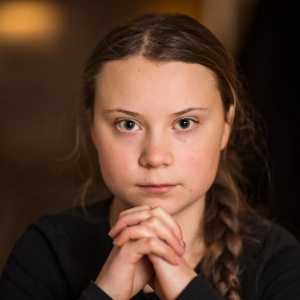
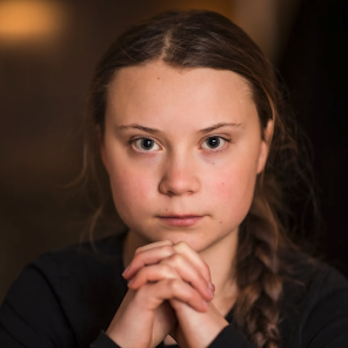
Base for grid cards

diff --git a/src/app/modules/app/components/card/card.component.html b/src/app/modules/app/components/card/card.component.html
@@ -1,28 +1,56 @@
-<div class="div-main-card">
-    <!-- Celebritie picture -->
-    <img class="img-celebrity-picture" src="../../../../../assets/img/{{celebrity.picture}}">
-    <!-- Celebrity name -->
-    <div>
-        <a class="a-celebrity-name"> 
-            {{celebrity.name}}
-        </a>
+<!-- banner cards -->
+<div class="div-card-view">
+    <div *ngIf="currentView === cardListView" class="div-main-card">
+        <!-- Celebritie picture -->
+        <img class="img-celebrity-picture" src="../../../../../assets/img/{{celebrity.picture}}">
+        <!-- Celebrity name -->
+        <div>
+            <a class="a-celebrity-name"> 
+                {{celebrity.name}}
+            </a>
+        </div>
+        <!-- Celebrity description -->
+        <div class="div-celebrity-container-description">
+            <a class="a-celebrity-description"> 
+                {{celebrity.description}}
+            </a>
+        </div>
+        <!-- lastUpdated -->
+        <div class="div-celebrity-container-lastupdated">
+            <a class="a-celebrity-lastupdated"> 
+                {{celebrity.lastUpdatedMessage}}
+            </a>
+        </div>
+        <!-- score -->
+        <app-score [rectangleHeight]="rectangleHeight" [celebrity]="celebrity"></app-score>
+        <!-- vote -->
+        <app-vote [celebrity]="celebrity"></app-vote>
+        <!-- banner__background -->
+        <div class="div-rectangle" [ngStyle]="{'height':getHeightRectangle()}"></div>
     </div>
-    <!-- Celebrity description -->
-    <div class="div-celebrity-container-description">
-        <a class="a-celebrity-description"> 
-            {{celebrity.description}}
-        </a>
+</div>
+<!-- grid cards -->
+<div class="div-grid-card-view">
+    <div *ngIf="currentView != cardListView" class="div-grid-card">
+        <!-- Celebritie picture -->
+        <img class="img-celebrity-grid" src="../../../../../assets/img_grid/{{celebrity.picture}}">
+         <!-- Celebrity name -->
+         <div>
+            <a class="a-celebrity-name-in-grid"> 
+                {{substringName(celebrity.name)}}
+            </a>
+        </div>
+        <!-- Celebrity description -->
+        <div class="div-celebrity-container-description-grid">
+            <a class="a-celebrity-description-grid"> 
+                {{substringDescription(celebrity.description)}}
+            </a>
+        </div>
+        <!-- lastUpdated -->
+        <div class="div-celebrity-container-lastupdated-grid">
+            <a class="a-celebrity-lastupdated-grid"> 
+                {{celebrity.lastUpdatedMessage}}
+            </a>
+        </div>
     </div>
-    <!-- lastUpdated -->
-    <div class="div-celebrity-container-lastupdated">
-        <a class="a-celebrity-lastupdated"> 
-            {{celebrity.lastUpdatedMessage}}
-        </a>
-    </div>
-    <!-- score -->
-    <app-score [rectangleHeight]="rectangleHeight" [celebrity]="celebrity"></app-score>
-    <!-- vote -->
-    <app-vote [celebrity]="celebrity"></app-vote>
-    <!-- banner__background -->
-    <div class="div-rectangle" [ngStyle]="{'height':getHeightRectangle()}"></div>
 </div>

diff --git a/src/app/modules/app/components/card/card.component.scss b/src/app/modules/app/components/card/card.component.scss
@@ -1,5 +1,12 @@
-.div-main-card {
+.div-card-view {
     width: 100%;
+}
+
+.div-grid-card-view {
+    width: 110%;
+}
+
+.div-main-card {
     height: 170px;
     margin-bottom: 18px;
 }
@@ -70,4 +77,76 @@
     color:white;
     position: absolute;
     right: 0;
+}
+
+/* Grid card */
+.div-grid-card {
+    width: 348px;
+    height: 348px;
+    float: left;
+    margin: 0 27px 27px 0;
+}
+
+.img-celebrity-grid {
+    width: 348px;
+    height: 348px;
+}
+
+.a-celebrity-name-in-grid {
+    position: relative;
+    font-family: Lato;
+    font-style: normal;
+    font-weight: normal;
+    font-size: 36px;
+    line-height: 43px;
+    display: flex;
+    align-items: flex-end;
+    color: #FFFFFF;
+    top: -230px;
+    left: 38px;
+    width: 80%;
+}
+
+.div-celebrity-container-description-grid {
+    width: 276.02px;
+    height: 260px;
+    position: absolute;
+}
+
+.a-celebrity-description-grid {
+    position: relative;
+    left: 38px;
+    width: 100%;
+    font-family: Lato;
+    font-style: normal;
+    font-weight: 300;
+    font-size: 15px;    
+    color: #FFFFFF;
+    top: -230px;
+    line-height: 21.6px;
+}
+
+.div-celebrity-container-lastupdated-grid {
+    position: relative;
+    top: 8px;
+    right: 14px;
+    font-family: Lato;
+    font-style: normal;
+    font-weight: bold;
+    font-size: 15px;
+    line-height: 18px;
+    text-align: right;
+}
+
+.a-celebrity-lastupdated-grid {
+    position: relative;    
+    font-family: Lato;
+    font-style: normal;
+    font-weight: bold;
+    font-size: 12px;
+    line-height: 14px;
+    text-align: right;
+    color: #FFFFFF;
+    top: -178px;
+    right: 83px;
 }

diff --git a/src/app/modules/app/components/card/card.component.ts b/src/app/modules/app/components/card/card.component.ts
@@ -7,12 +7,19 @@ import { environment } from 'src/environments/environment';
 import { ToolsService } from 'src/app/services/tools.service';
 import { MenuService } from 'src/app/services/menu.service';
 
+const MAX_NAME : number = 21;
+const MAX_DESCRIPTION : number = 74;
+
 @Component({
   selector: 'app-card',
   templateUrl: './card.component.html',
   styleUrls: ['./card.component.scss']
 })
 export class CardComponent implements OnInit {
+
+  // Component view options
+  public cardListView: string = 'List';
+  public cardGridView: string = 'Grid';
 
   public rectangleHeight: number = 1100;
 
@@ -46,12 +53,30 @@ export class CardComponent implements OnInit {
     return `${this.rectangleHeight}px`;
   }
 
+  substringName(value: string): string {
+    if(value && value.length > MAX_NAME) {
+      return `${value.substring(0, MAX_NAME)}...`;
+    }
+    else {
+      return value;
+    }
+  }
+
+  substringDescription(value: string): string {
+    if(value && value.length > MAX_DESCRIPTION) {
+      return `${value.substring(0, MAX_DESCRIPTION)}...`;
+    }
+    else {
+      return value;
+    }
+  }
+
   // Subscribe
   refreshViewSubsCribe() {
     // View has changed!
-    this._menuService.changeMenuView.subscribe(changed => {
-      if(changed) {
-        console.log('cambio esta monda');
+    this._menuService.changeMenuView.subscribe(view => {
+      if(view) {
+        this.currentView = view;
       }
     });
   }

diff --git a/src/environments/environment.ts b/src/environments/environment.ts
@@ -1,4 +1,4 @@
 export const environment = {
   production: false,
-  initView: 'List'
+  initView: 'Grid'
 };
